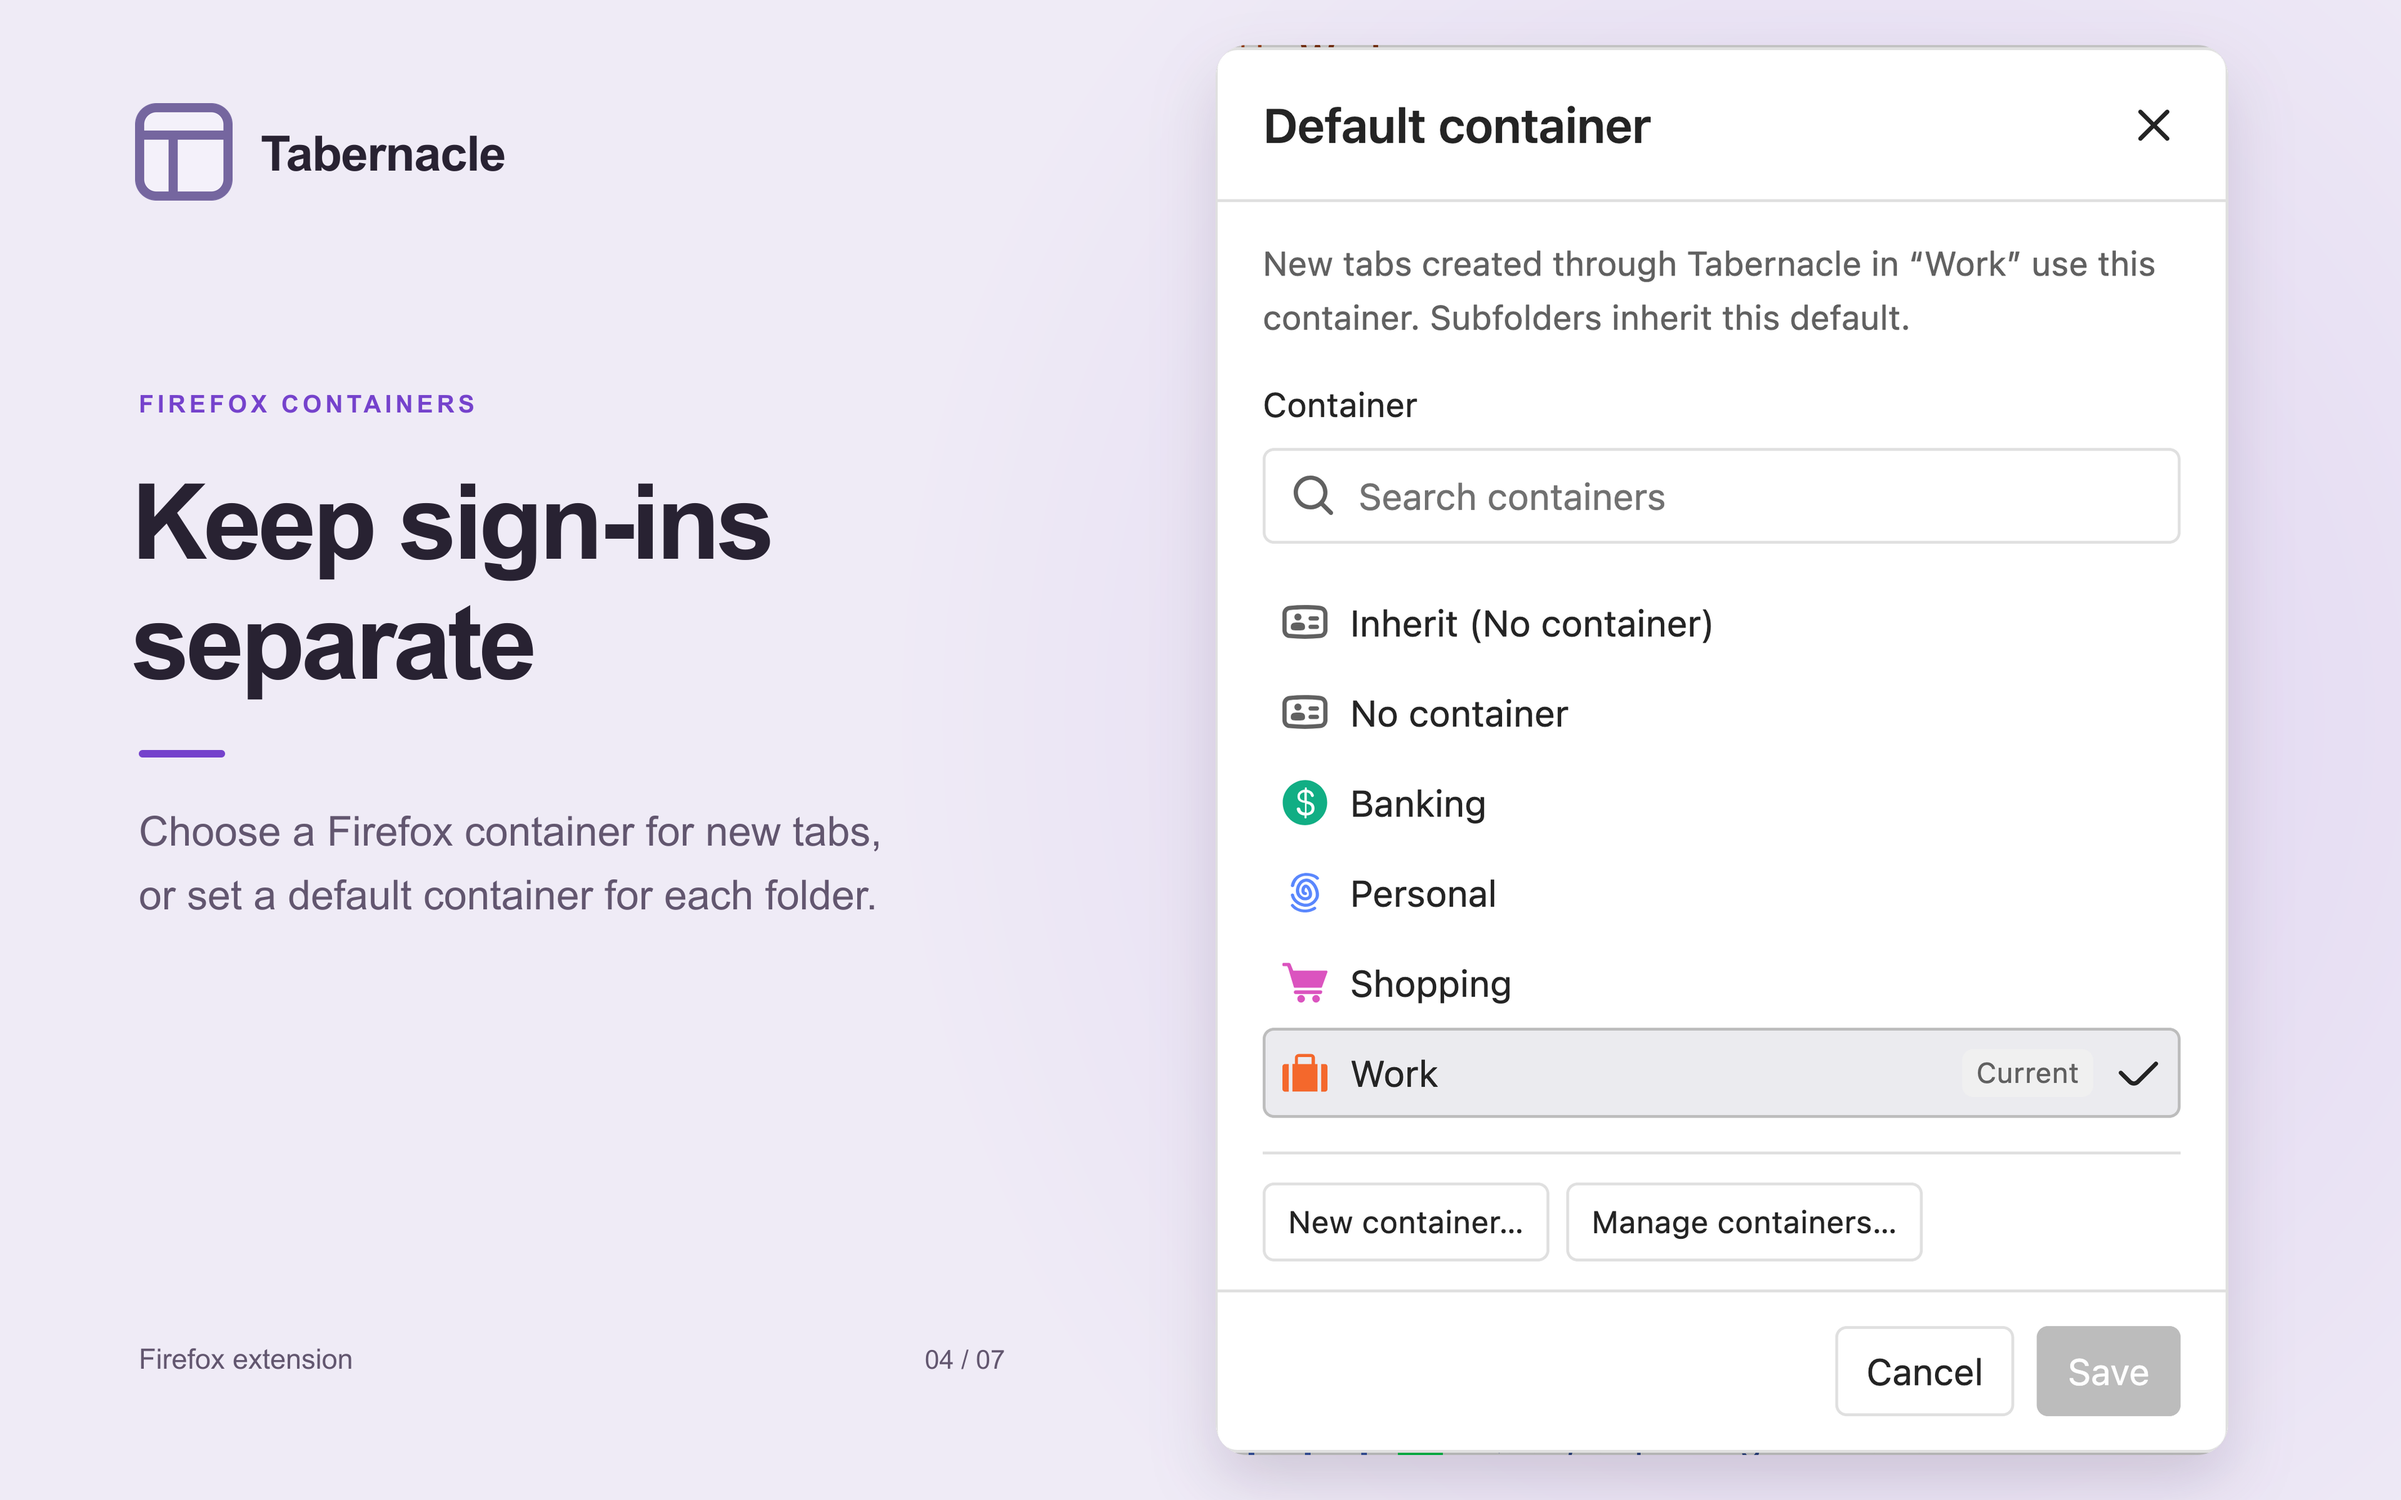
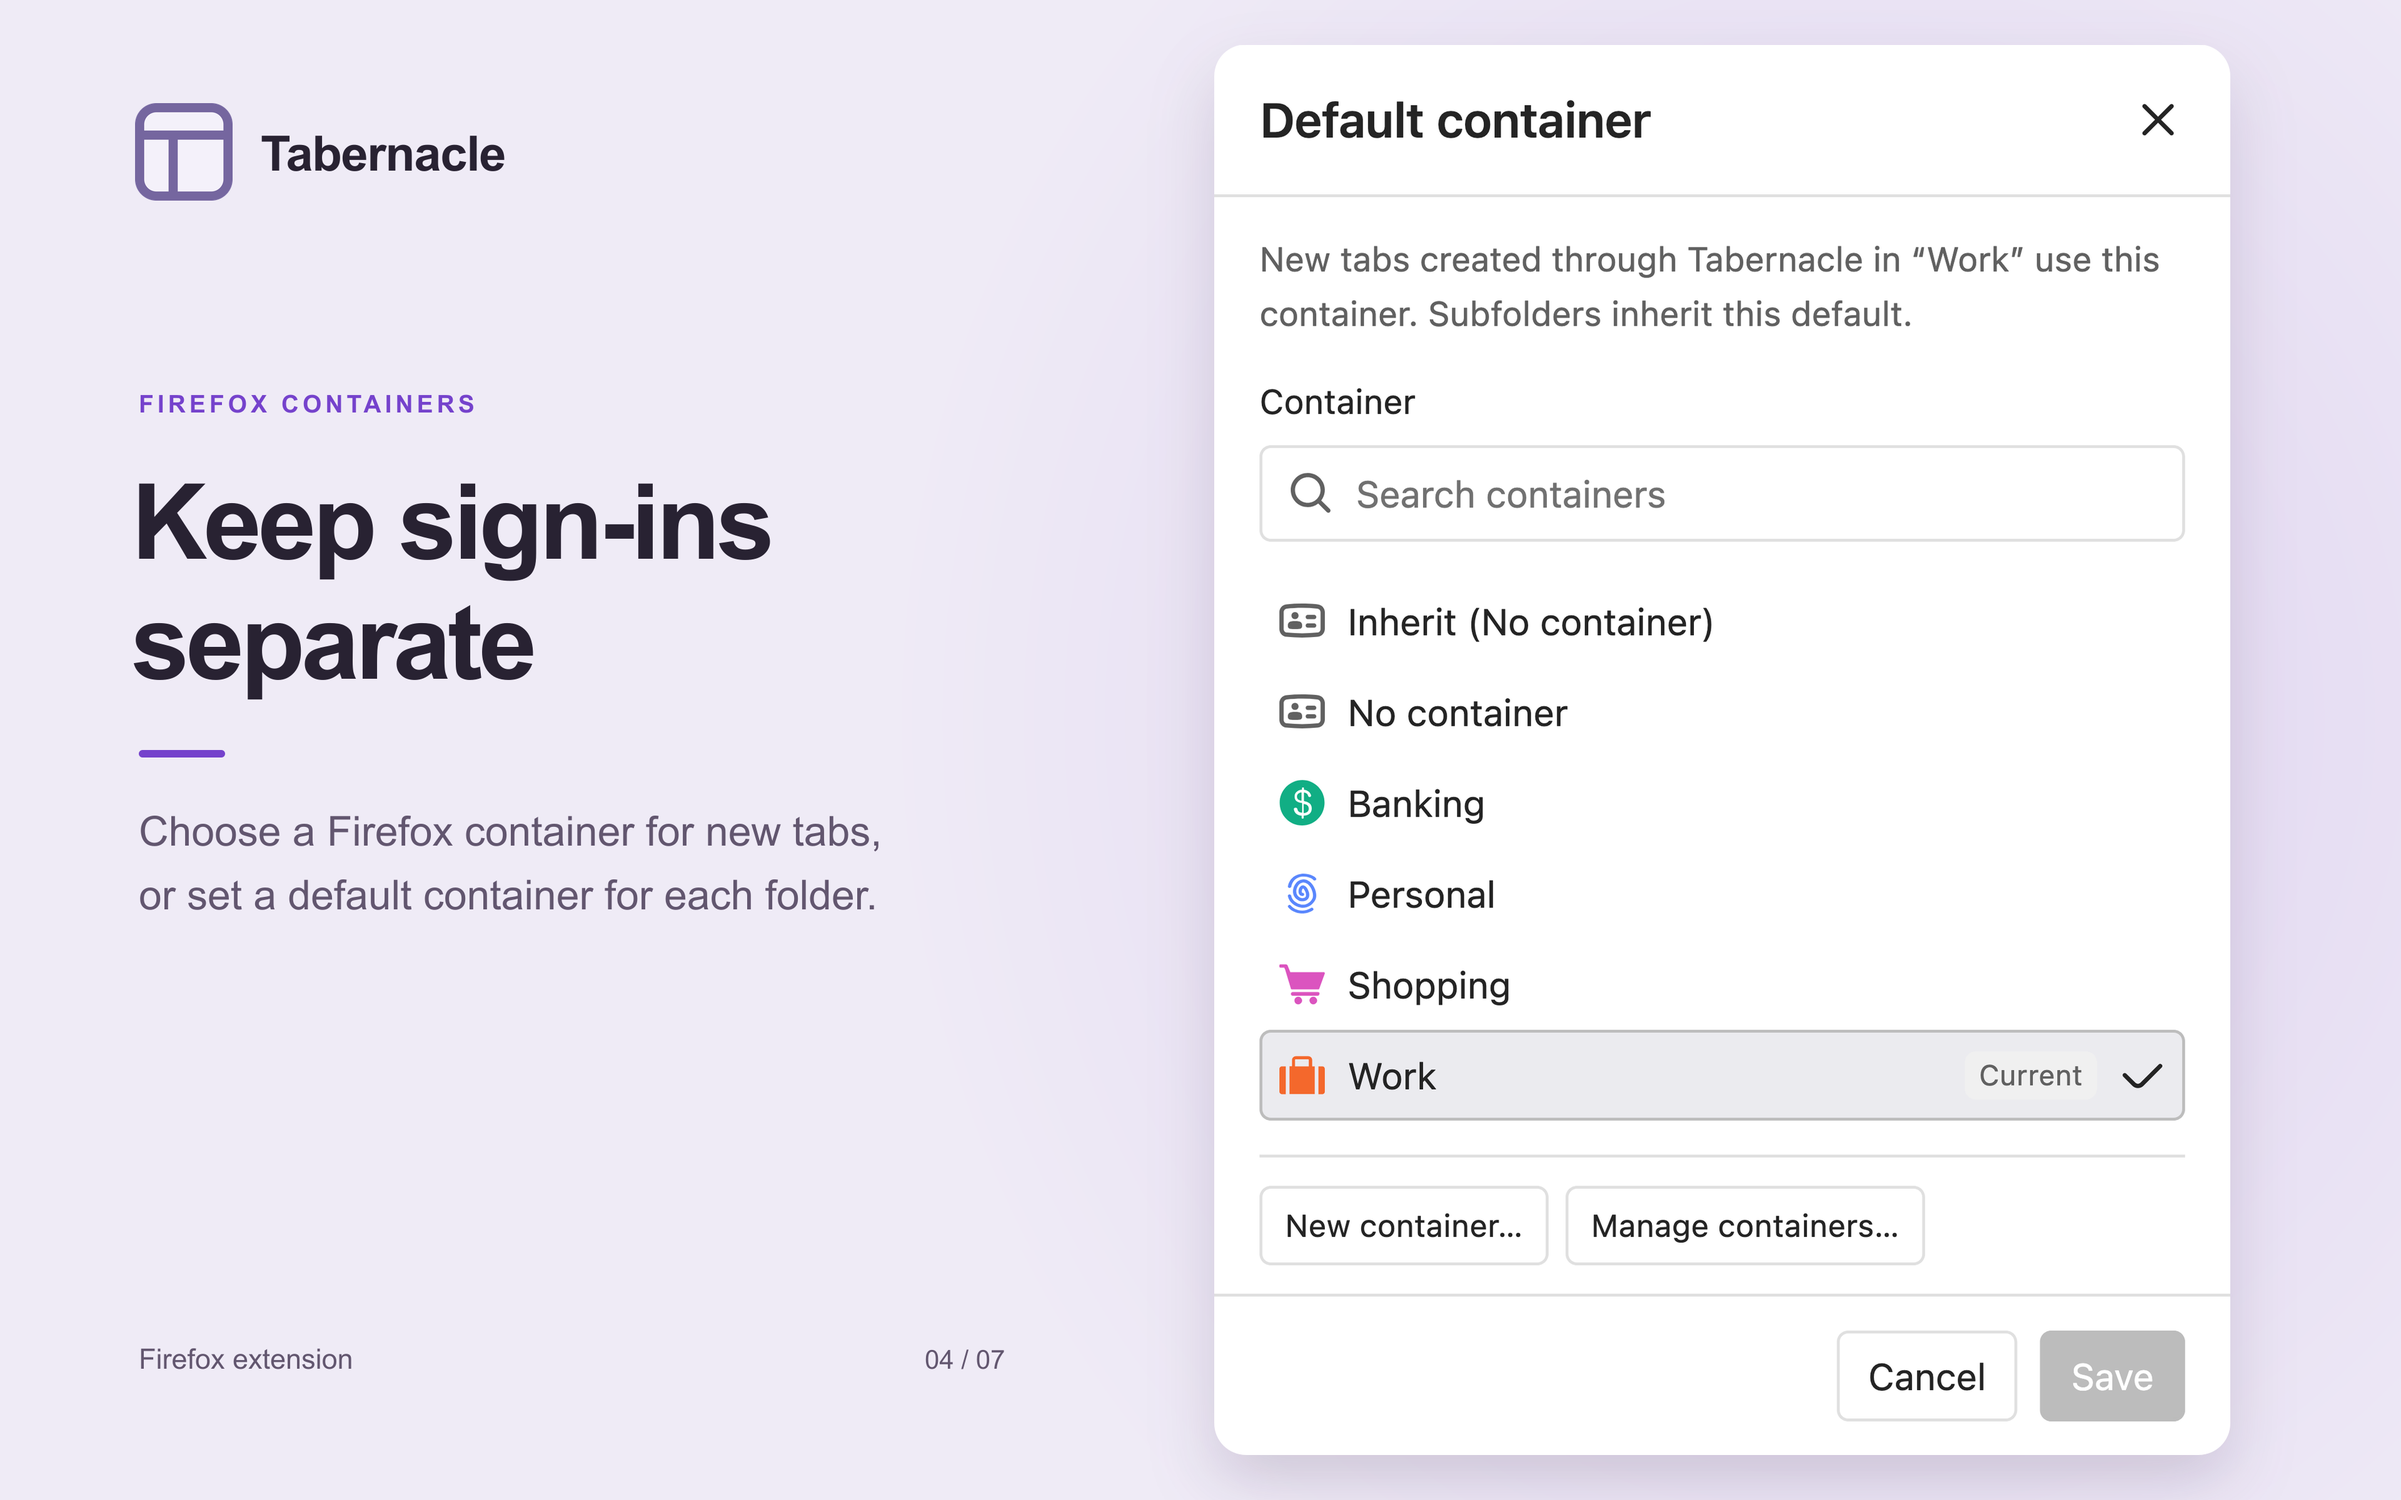
Refresh screenshots

diff --git a/scripts/screenshot-layout.js b/scripts/screenshot-layout.js
@@ -10,6 +10,13 @@ export function resolveScreenshotCrop(framing, measured, sourceOrigin) {
     bottom;
   if (measured.element) {
     ({ left, top, right, bottom } = measured.element);
+    if (framing.inset) {
+      // Snap inset crops inward so fractional dialog edges cannot include the backdrop.
+      left = Math.ceil(left + framing.inset);
+      top = Math.ceil(top + framing.inset);
+      right = Math.floor(right - framing.inset);
+      bottom = Math.floor(bottom - framing.inset);
+    }
   } else {
     top = measured.top ? measured.top.top - (framing.paddingTop || 0) : 0;
     bottom = measured.bottom.bottom + (framing.paddingBottom || 0);

diff --git a/test/screenshots.test.js b/test/screenshots.test.js
@@ -39,6 +39,19 @@ test('dialog crops round outwards without clipping fractional borders', () => {
   });
 });
 
+test('inset dialog crops exclude backdrop pixels at fractional edges', () => {
+  const measured = {
+    viewport: { width: 388, height: 711 },
+    element: { left: 14, top: 105.5, right: 374, bottom: 605.5 },
+  };
+  assert.deepEqual(resolveScreenshotCrop({ inset: 1 }, measured, { left: 41, top: 134 }), {
+    left: 56,
+    top: 241,
+    width: 358,
+    height: 497,
+  });
+});
+
 test('offscreen content and crops beyond the capture are rejected', () => {
   const measured = {
     viewport: { width: 388, height: 711 },

diff --git a/scripts/screenshot-scenes.js b/scripts/screenshot-scenes.js
@@ -50,6 +50,8 @@ export async function setupScreenshotDemo(
         id: group.id,
         cookieStoreId: containers[group.container],
       });
+    if (group.appearance)
+      await send('setGroupAppearance', { id: group.id, appearance: group.appearance });
   }
   const existing = new Map();
   const windowTabs = await browser.tabs.query({ windowId: win.id });
